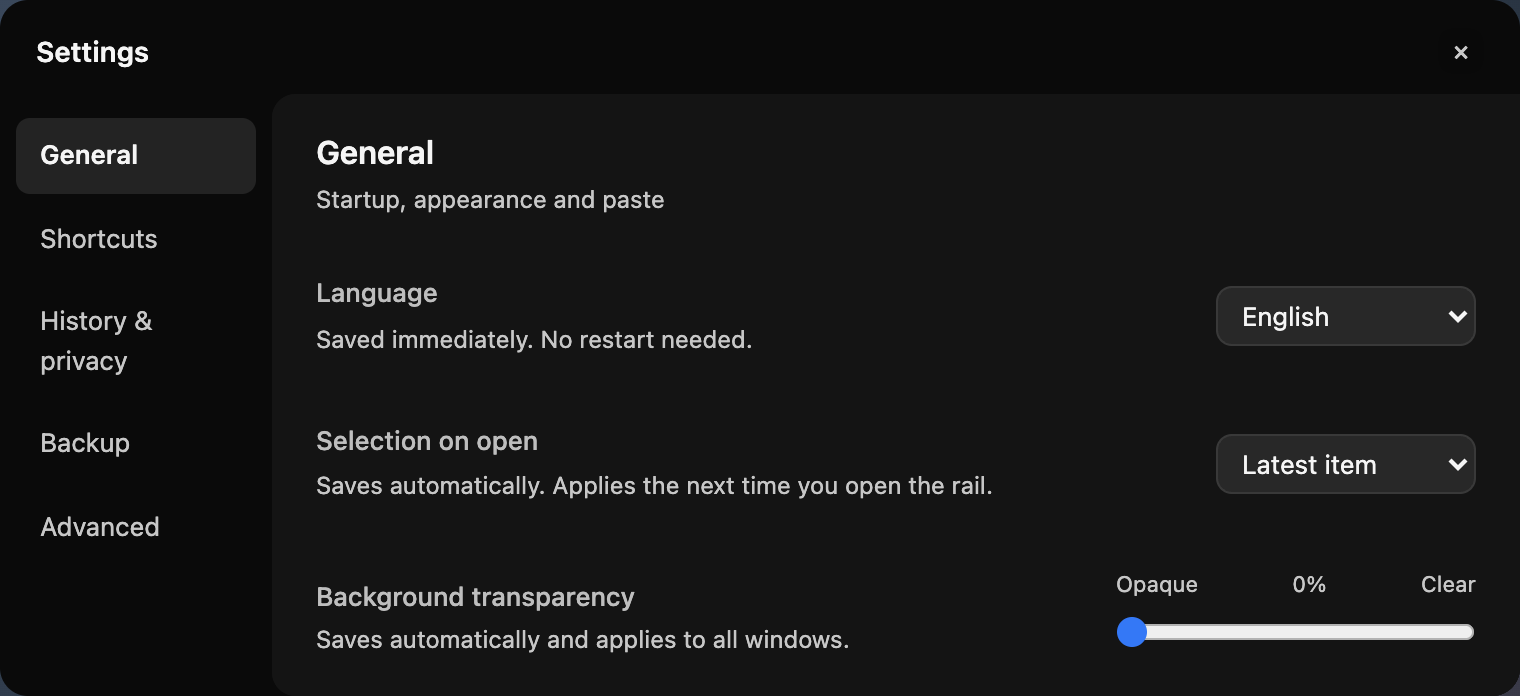
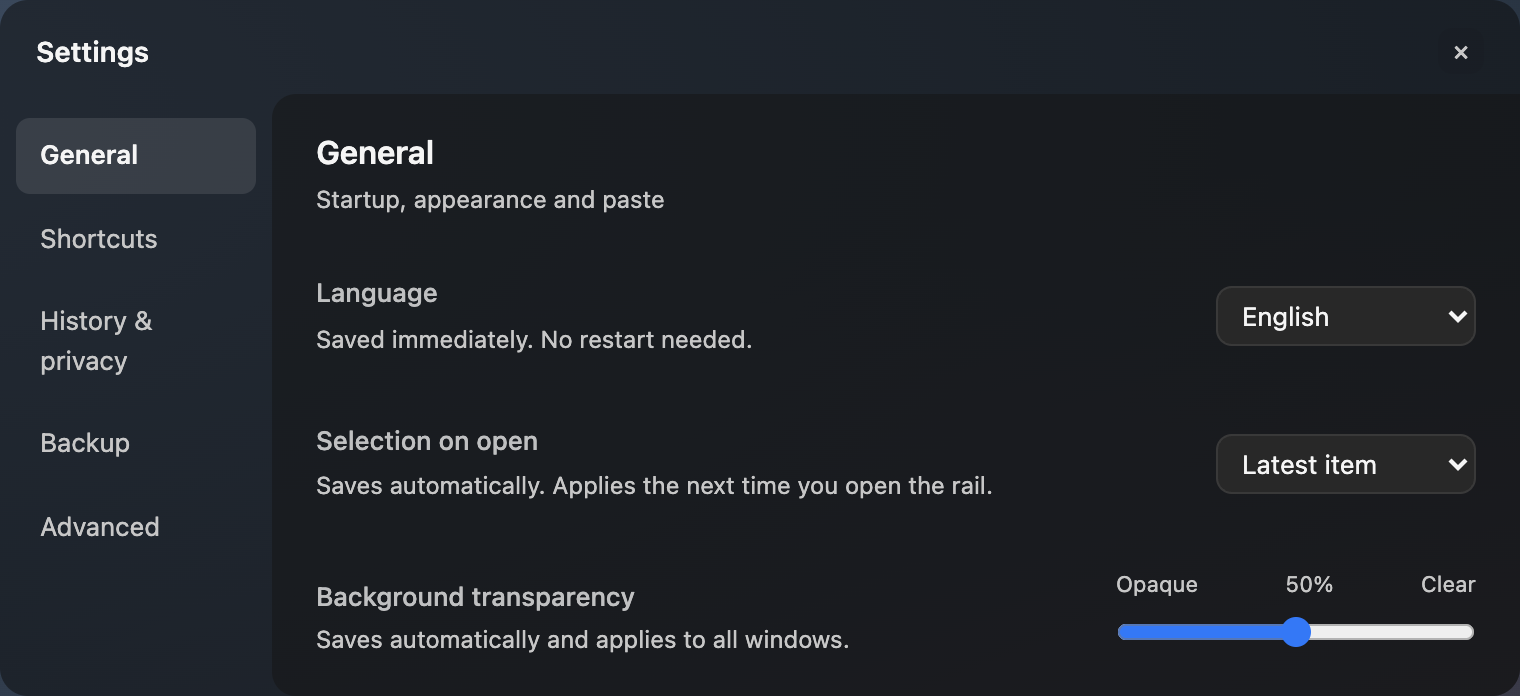
Restore README demonstrations to 50 percent opacity

Changed region(s): [[0.0, 0.0, 1.0, 1.0], [0.7421, 0.875, 0.8658, 0.9353], [0.8349, 0.8147, 0.8967, 0.8448]]

diff --git a/docs/images/README.md b/docs/images/README.md
@@ -2,7 +2,7 @@
 
 These images are rendered from CopyRail's compiled Leptos interface using the repository's isolated browser fixture. All cards, board names and source labels are synthetic. The mountain illustration comes from the existing canvas fixture; no personal images, clipboard history, native desktop screenshots or third-party artwork are included.
 
-The capture script selects **English using Settings → General → Language** and **0% (fully opaque) using Settings → General → Background transparency**, through the production controls. Both values are saved in the isolated fixture. A muted synthetic gradient surrounds the opaque app panels in the README preview composition. It does not translate DOM nodes or replace interface labels. The same saved language preference is available in the shipping desktop app. Layout, styles and interactions come from the compiled UI. Capture does not edit generated application assets, write to the system clipboard, register shortcuts or launch a collecting desktop instance. The Demo badge reflects this isolation.
+The capture script selects **English using Settings → General → Language** and **50% using Settings → General → Background transparency**, through the production controls. Both values are saved in the isolated fixture. A muted synthetic gradient sits behind the transparent app so the see-through surfaces remain visible in the README. It does not translate DOM nodes or replace interface labels. The same saved language preference is available in the shipping desktop app. Layout, styles and interactions come from the compiled UI. Capture does not edit generated application assets, write to the system clipboard, register shortcuts or launch a collecting desktop instance. The Demo badge reflects this isolation.
 
 After building the frontend, with Node.js 22+ and Google Chrome in its standard macOS location:
 
@@ -10,6 +10,6 @@ After building the frontend, with Node.js 22+ and Google Chrome in its standard 
 node scripts/capture-readme-ui.mjs
 ```
 
-The script checks that visible app copy is English, that the saved transparency is 0% and that each captured panel has a fully opaque background, screenshots the rail, compact preview, language settings and history settings, and verifies that compiled asset hashes are unchanged. Its report is written to `target/ui-verification/readme-screenshots-report.json`. Browser screenshots do not establish native paste, permissions, window behavior or VoiceOver acceptance.
+The script checks that visible app copy is English, that the saved transparency is 50% and that each captured panel has 50% background opacity, screenshots the rail, compact preview, language settings and history settings, and verifies that compiled asset hashes are unchanged. Its report is written to `target/ui-verification/readme-screenshots-report.json`. Browser screenshots do not establish native paste, permissions, window behavior or VoiceOver acceptance.
 
-Native frosted-glass compositing is checked in the macOS app separately. These browser captures show the interface with fully opaque backgrounds (0% transparency) over a synthetic backdrop. They do not reproduce or measure the native macOS blur/compositing effect, and do not capture the user's desktop.
+Native frosted-glass compositing is checked in the macOS app separately. These browser captures show the interface at 50% transparency over a synthetic backdrop. They do not reproduce or measure the native macOS blur/compositing effect, and do not capture the user's desktop.

diff --git a/README.md b/README.md
@@ -12,7 +12,7 @@ CopyRail keeps the things you copy in a searchable card rail. Find a snippet, pr
 
 ![CopyRail clipboard rail with sample notes, a link, an illustration, a color and code](docs/images/clipboard-dark.png)
 
-*English interface at **fully opaque backgrounds (0% transparency)**, with synthetic demo content and a synthetic backdrop. [Screenshot details](docs/images/README.md).*
+*English interface at **50% background transparency**, with synthetic demo content and a synthetic backdrop. [Screenshot details](docs/images/README.md).*
 
 ## What you can do
 
@@ -22,7 +22,7 @@ CopyRail keeps the things you copy in a searchable card rail. Find a snippet, pr
 - **Reuse more than text.** Work with plain text, HTML, links, images, files, PDFs and colors.
 - **Paste one item at a time.** Add cards to a paste queue for filling several fields in a chosen order. Plain-text output is available too.
 - **Choose your language.** By default, CopyRail follows your system language: Chinese uses Simplified Chinese; other languages use English. Choose System default, English or Simplified Chinese in Settings → General → Language. Manual choices are saved immediately and preserved on launch.
-- **Adjust the glass background.** Settings → General → Background transparency ranges from an opaque surface to clear macOS frosted glass. The default is 50%; the screenshots demonstrate fully opaque backgrounds (0%). Changes save automatically across the rail, settings and preview, while text and controls stay solid. System reduced-transparency preferences take priority.
+- **Adjust the glass background.** Settings → General → Background transparency ranges from an opaque surface to clear macOS frosted glass. The default is 50%; the screenshots demonstrate 50%. Changes save automatically across the rail, settings and preview, while text and controls stay solid. System reduced-transparency preferences take priority.
 - **Choose where the rail opens.** Settings → General → Selection on open offers Latest item (default) or Last position. Last position remembers the selected card and browsing context across restarts; new captures do not change the remembered card. Missing items return to the latest history. The setting saves automatically and applies on the next invocation.
 - **Choose what stays.** Pause capture, exclude apps, set retention limits, and export or restore a local backup.
 - **Work from the keyboard.** Open the rail with `⇧⌘V`, navigate with the arrow keys, preview with `Space`, and copy with `⌘C`.
